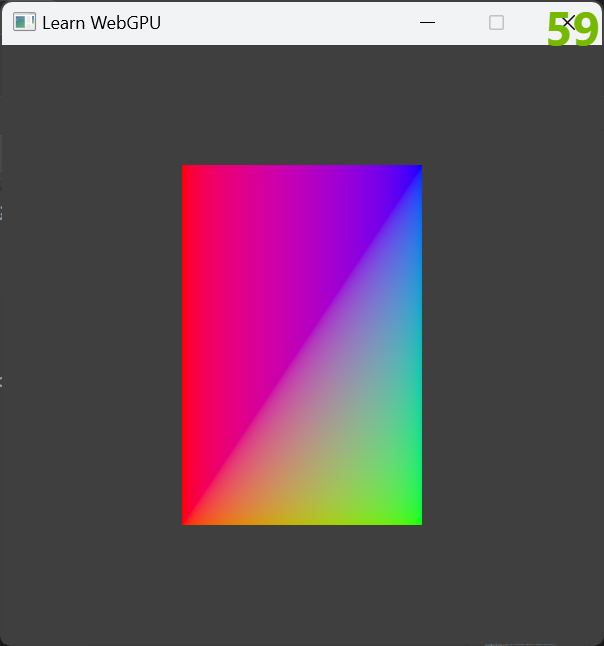
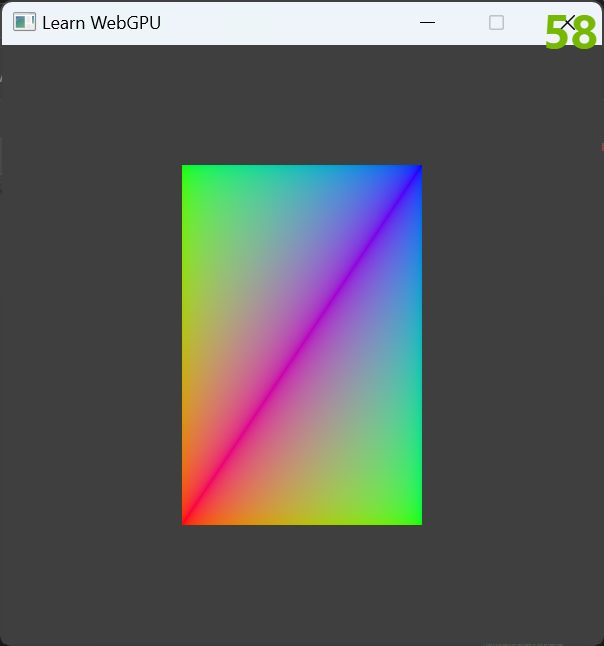
update the color properly for the index buffer

Changed region(s): [[0.298, 0.2477, 0.6854, 0.805], [0.894, 0.0, 1.0, 0.0929], [0.8046, 0.9907, 0.8344, 1.0]]

diff --git a/c14/Application.h b/c14/Application.h
@@ -59,17 +59,13 @@ namespace learn::webgpu
         };
 
         std::vector<float> mColorData = {
-            1.0, 0.0, 0.0,
+            1.0f, 0.0f, 0.0f,
 
-            0.0, 1.0, 0.0,
+            0.0f, 1.0f, 0.0f,
             
-            0.0, 0.0, 1.0,
+            0.0f, 0.0f, 1.0f,
             
-            1.0, 0.0, 0.0,
-
-            0.0, 1.0, 0.0,
-
-            0.0, 0.0, 1.0,
+            0.0f, 1.0f, 0.0f
 
         };
 
